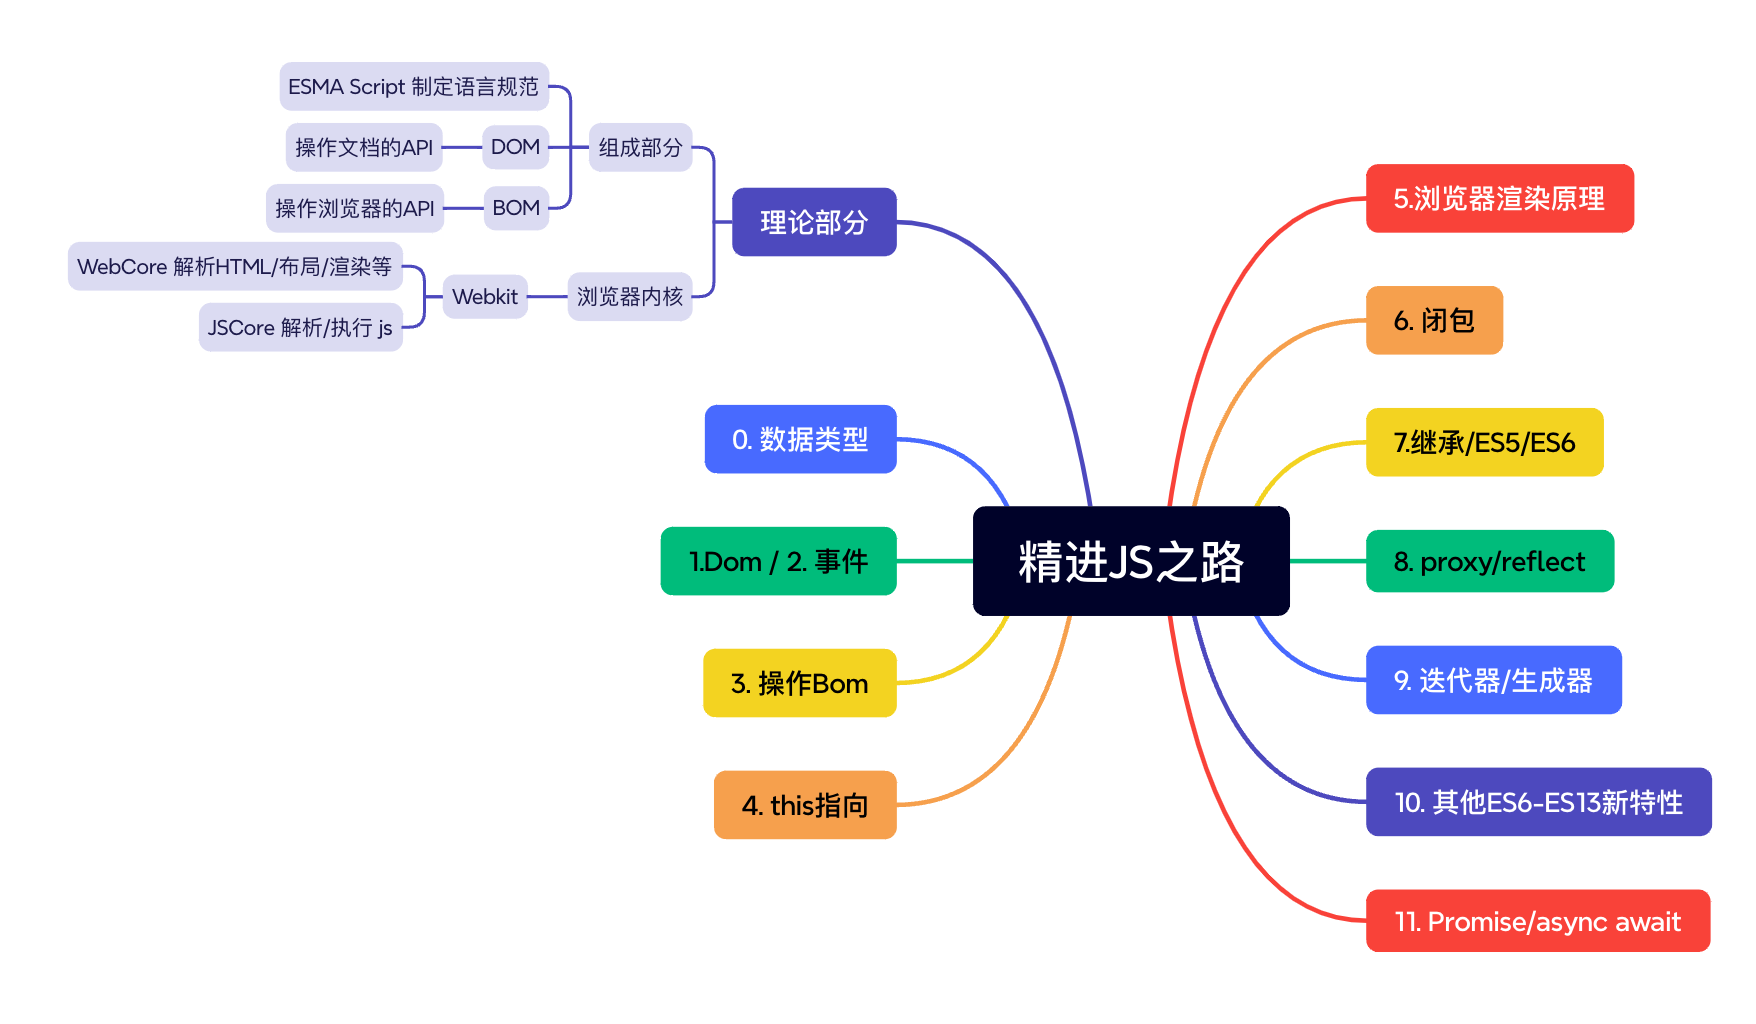
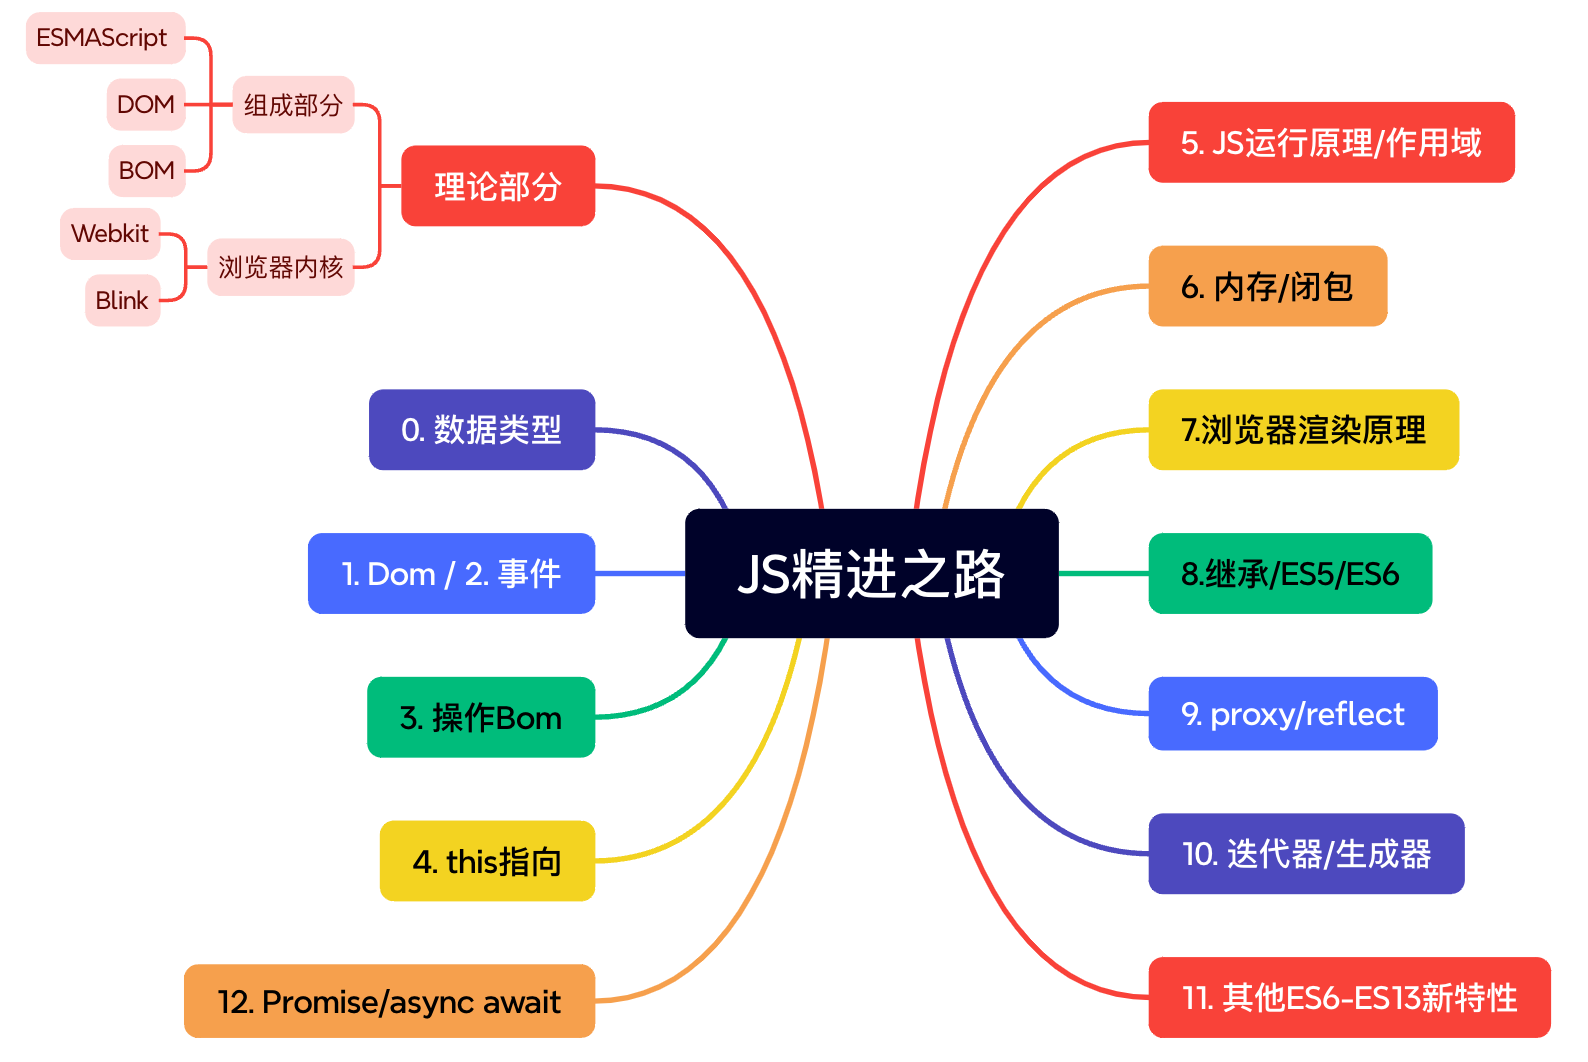
docs: memory

diff --git a/docs/js/basic/memory-closure/index.md b/docs/js/basic/memory-closure/index.md
@@ -1,0 +1,39 @@
+# 内存 & 闭包
+
+## 内存管理
+
+前面我们在数据结构中有说到，原始数据类型 / 引用数据类型，分别存放在内存的栈/堆结构中。
+在不同的编程语言中，收集方式不同，有的时候自动管理 （JS） ，而有的需要手动管理 （C）
+但是过程都为三步骤
+
+1. 申请内存空间
+2. 应用内存 （存放数据）
+3. 不需要时，释放内存
+
+## 垃圾回收 （GC）
+
+因为内存的大小是有限的，当数据不在需要的时候需要对它进行回收 （GC），以释放出更多的内存空间。那么 GC 怎么知道哪些数据是不在使用的呢？常见的 GC 算法如下
+
+### 引用计数
+
+如果存在一个引用那么数字就进行递增，当一个对象的引用为 0 的时候就销毁  
+**弊端：循环引用 导致内存不会被销毁**
+
+<!-- ![alt text](../../images/counting.png#pic_center=300x300) -->
+<img src="../../images/counting.png" style="width: 380px; height: auto; margin: auto" />
+
+### 标记清除
+
+其本质：**可达性**  
+从根节点出发如果不存在该节点的引用，就应该被销毁，JS 引擎采用的就是该算法
+
+<img src="../../images/mark.png" style="width: 400px; height: auto; margin: auto" />
+
+**更多性能优化**
+
+- 标记整理
+  与标记清除类似，回收期间保留存储对象搬运汇集到连续的内存中，从而整合空闲空间，避免内存的碎片化
+- 分代收集
+  “新 旧”，长期存活的对象变得“老旧”，从而减少检查的频率
+- 闲时收集
+  只在 CPU 空闲时常试运行
